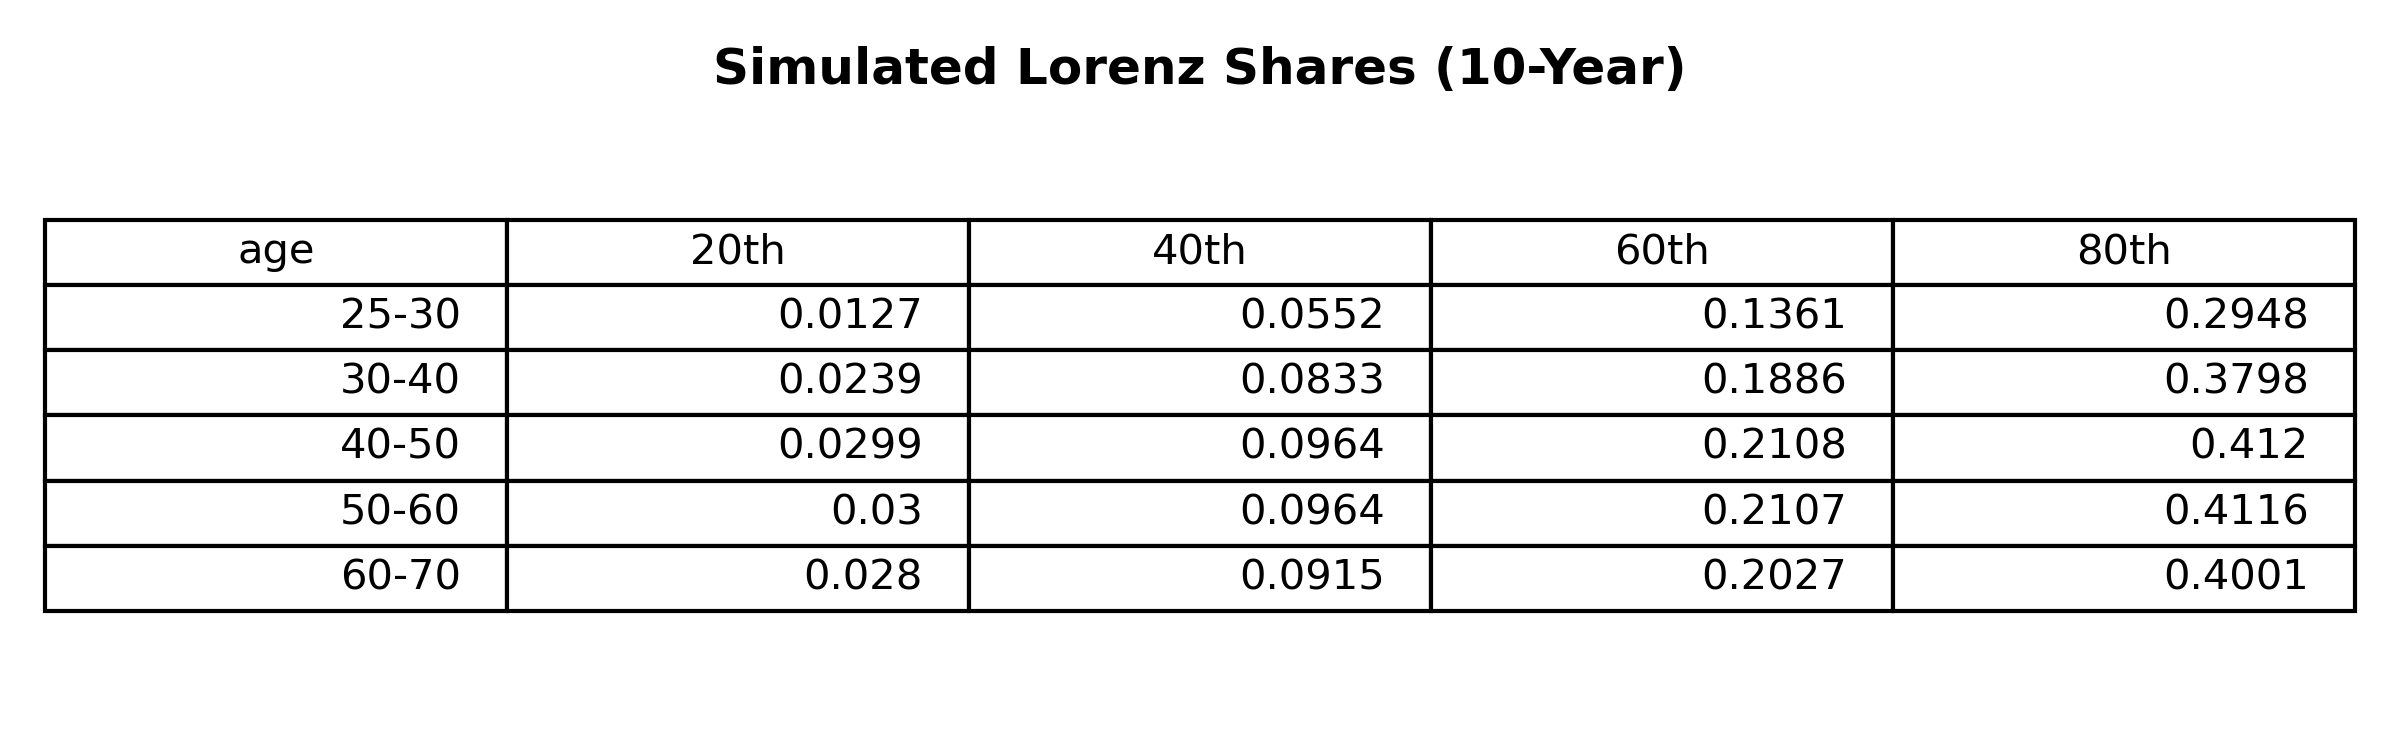
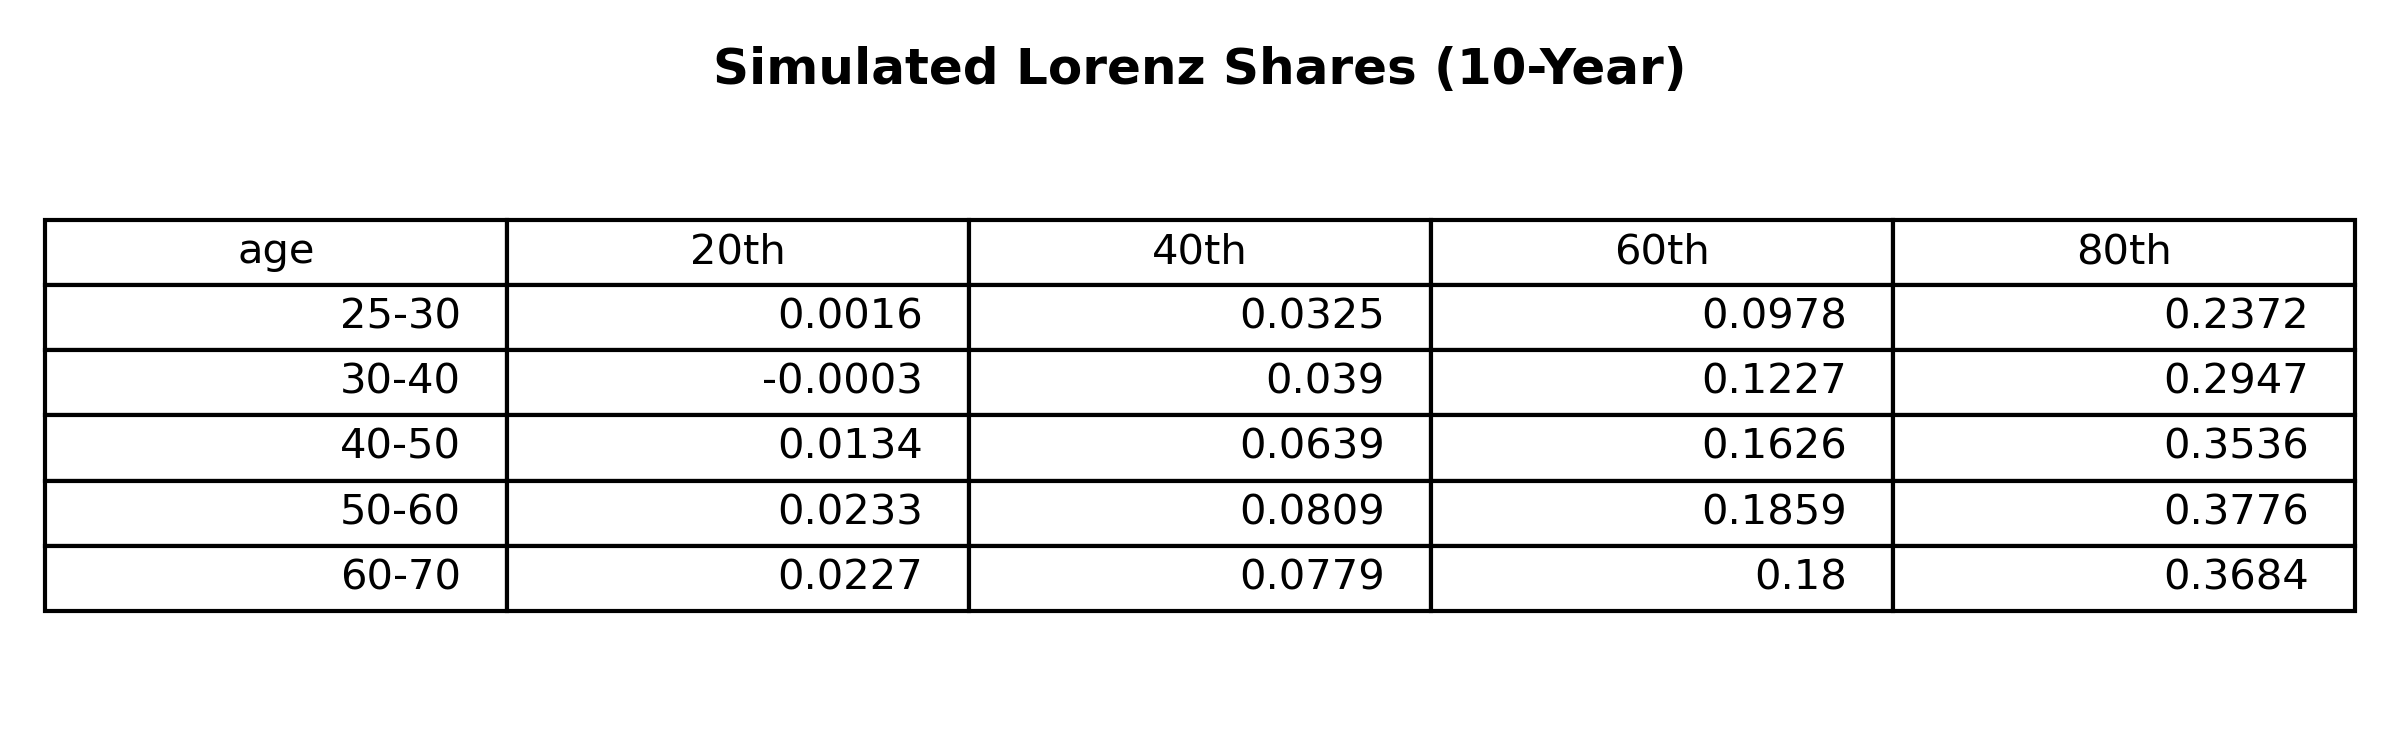
latest edits to code
elasticities work out for LC model but not for PY model with het. Next add code changes to paper and slides

diff --git a/Code/_moments.py b/Code/_moments.py
@@ -10,9 +10,9 @@ from parameters import (opt_center, opt_spread)
 
 
 #Life cycle epsilon values for elasticites
-eff_R = 0.02314631637939408
-r_list_LC= [0.9986005904641386 - 1, 1.0153472494911955 -1, 1.0320939085182526 - 1, 1.0488405675453094 - 1, 1.0655872265723663 - 1,
-          1.0823338855994233 - 1, 1.0990805446264802 - 1]
+eff_R = 0.095
+r_list_LC= [1.0038542516477484 - 1, 1.0140159560644642 - 1, 1.02417766048118 - 1, 1.0343393648978958 - 1,
+            1.0445010693146115 - 1, 1.0546627737313274 - 1, 1.0648244781480432 - 1]
 print(r_list_LC)
 epsilon_list_LC = []
 
@@ -21,4 +21,16 @@ for r in r_list_LC:
     epsilon_list_LC.append(epsilon)
 
 print(epsilon_list_LC)
+
+r_list_PY = [0.9635283311463693 -1, 0.9827521585708383 -1, 1.0019759859953075 -1, 1.0211998134197764 -1,
+1.0404236408442453 -1, 1.0596474682687145 -1, 1.0788712956931834 -1]
+
+print(r_list_PY)
+epsilon_list_PY = []
+
+for r in r_list_PY:
+    epsilon = r / (eff_R - r)
+    epsilon_list_PY.append(epsilon)
+
+print(epsilon_list_PY)
 

diff --git a/Code/parameters.py b/Code/parameters.py
@@ -74,7 +74,7 @@ weights_data = df_year[weight_col].astype(float).to_numpy()
 # Calculate empirical moments to be used as targets
 empirical_moments = calcEmpMoments(asset_data, wealth_data, income_data, weights_data, TargetPercentiles)
 emp_KY_ratio = empirical_moments[0]
-# emp_KY_ratio = 10.26 * 4
+emp_KY_ratio = 3
 print(emp_KY_ratio)
 emp_lorenz = empirical_moments[1]
 print(emp_lorenz)
